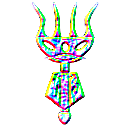
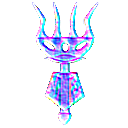
Added normal maps to torches.

Changed region(s): [[0.25, 0.0, 0.7812, 1.0]]

diff --git a/SpiralTrajectoryGame/public_html/src/MyGame/Objects/Torch.js b/SpiralTrajectoryGame/public_html/src/MyGame/Objects/Torch.js
@@ -17,6 +17,7 @@
  * Constructor for the Torch object. Initializes a spriteTexture
  * 
  * @param {String}  texture     The name of the texture for the torch
+ * @param {String}  normalMap   The name of the normal map for the torch
  * @param {Number}  xPos       
  * @param {Number}  yPos        
  * @param {Number}  width       
@@ -26,14 +27,14 @@
  *                              added to the Golem's reference set.
  * @returns {Torch}
  */
-function Torch(texture, xPos, yPos, width, height, torchType, golem) {
+function Torch(texture, normalMap, xPos, yPos, width, height, torchType, golem) {
     // Save the type of torch, as this will be needed to pick the correct
     // values for the particle system later on. This can also be used, if
     // needed, to determine what the damage bonus of the torch should be.
     this.type = torchType;
     
     // Create and initialize the renderable with the parameterized values. 
-    this.mTorch = new SpriteRenderable(texture);
+    this.mTorch = new IllumRenderable(texture, normalMap);
     this.mTorch.setColor(Config.Torch[this.type].Color);
     this.mTorch.getXform().setPosition(xPos, yPos);
     this.mTorch.getXform().setSize(width, height);

diff --git a/SpiralTrajectoryGame/public_html/src/MyGame/Scenes/BossBattle/BossBattle_buildLevel.js b/SpiralTrajectoryGame/public_html/src/MyGame/Scenes/BossBattle/BossBattle_buildLevel.js
@@ -60,6 +60,7 @@ BossBattle.prototype.createTorches = function () {
     for (var torch in Config.BossBattle.Torches.Ground) {
         gEngine.LayerManager.addToLayer(gEngine.eLayer.eActors,new Torch (
             Config.BossBattle.Textures.GroundTorchTexture,
+            Config.BossBattle.Textures.GroundTorchNormal,
             Config.BossBattle.Torches.Ground[torch].X,
             Config.BossBattle.Torches.Ground[torch].Y,
             Config.BossBattle.Torches.Ground[torch].Width,
@@ -73,6 +74,7 @@ BossBattle.prototype.createTorches = function () {
     for (var torch in Config.BossBattle.Torches.Wall) {
         temp = new Torch (
             Config.BossBattle.Textures.WallTorchTexture,
+            Config.BossBattle.Textures.WallTorchNormal,
             Config.BossBattle.Torches.Wall[torch].X,
             Config.BossBattle.Torches.Wall[torch].Y,
             Config.BossBattle.Torches.Wall[torch].Width,

diff --git a/SpiralTrajectoryGame/public_html/src/MyGame/Config/Config_BossBattle.js b/SpiralTrajectoryGame/public_html/src/MyGame/Config/Config_BossBattle.js
@@ -24,7 +24,9 @@ Config.BossBattle = Object.freeze({
         GroundTexture:          "assets/groundtexture.png",
         WallTexture:            "assets/walltexture.png",
         GroundTorchTexture:     "assets/props/torch1.png",
+        GroundTorchNormal:     "assets/props/normal/torch1.png",
         WallTorchTexture:       "assets/props/torch2.png",
+        WallTorchNormal:       "assets/props/normal/torch2.png",
         TorchParticleTexture:   "assets/particles/particle.png",
         FlameParticleTexture:   "assets/particles/flameparticle.png",
         SnowParticleTexture:    "assets/particles/snowparticle.png",
